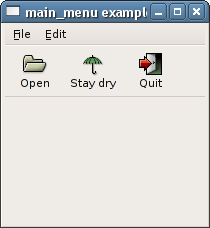
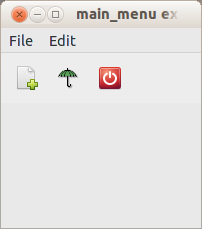
Update the menus/main_menu and menus_and_toolbars examples
* docs/tutorial/C/figures/main_menu.png:
* docs/tutorial/C/figures/menus_and_toolbars.png: Updated pictures.
* examples/book/menus/main_menu/examplewindow.[h|cc]: Use Gtk::Builder to
create the toolbar.
* examples/book/menus_and_toolbars/examplewindow.[h|cc]: Use Gtk::Builder to
create the toolbar. Add the Rain tool button, which was deleted when
Gtk::UIManager was abandoned. Use Gtk::Application::set_accel_for_action().
* examples/book/menus_and_toolbars/main.cc: Add the app to ExampleWindow's
constructor.

Changed region(s): [[0.0, 0.0, 1.0, 1.0]]

diff --git a/examples/book/menus_and_toolbars/examplewindow.cc b/examples/book/menus_and_toolbars/examplewindow.cc
@@ -1,5 +1,3 @@
-//$Id: examplewindow.cc 836 2007-05-09 03:02:38Z jjongsma $ -*- c++ -*-
-
 /* gtkmm example Copyright (C) 2002 gtkmm development team
  *
  * This program is free software; you can redistribute it and/or modify
@@ -20,7 +18,7 @@
 #include <gtkmm.h>
 #include <iostream>
 
-ExampleWindow::ExampleWindow()
+ExampleWindow::ExampleWindow(const Glib::RefPtr<Gtk::Application>& app)
 : m_Box(Gtk::ORIENTATION_VERTICAL)
 {
   set_title("main_menu example");
@@ -55,9 +53,8 @@ ExampleWindow::ExampleWindow()
 
   //Define how the actions are presented in the menus and toolbars:
   Glib::RefPtr<Gtk::Builder> m_refBuilder = Gtk::Builder::create();
-  //TODO? add_accel_group(m_refBuilder->get_accel_group());
 
-  //Layout the actions in a menubar:
+  //Layout the actions in a menubar and toolbar:
   const char* ui_info =
     "<interface>"
     "  <menu id='menubar'>"
@@ -94,6 +91,7 @@ ExampleWindow::ExampleWindow()
     "      <item>"
     "        <attribute name='label' translatable='yes'>_Cut</attribute>"
     "        <attribute name='action'>example.cut</attribute>"
+    "        <attribute name='accel'>&lt;Primary&gt;x</attribute>"
     "      </item>"
     "      <item>"
     "        <attribute name='label' translatable='yes'>_Copy</attribute>"
@@ -106,7 +104,70 @@ ExampleWindow::ExampleWindow()
     "        <attribute name='accel'>&lt;Primary&gt;v</attribute>"
     "      </item>"
     "    </submenu>"
-    "  </menu>";
+    "  </menu>"
+    ""
+    "<!-- Generated with glade 3.18.3 -->"
+    "  <object class='GtkImage' id='image_rain'>"
+    "    <property name='visible'>True</property>"
+    "    <property name='can_focus'>False</property>"
+    "    <property name='pixbuf'>rain.png</property>"
+    "  </object>"
+    "  <object class='GtkToolbar' id='toolbar'>"
+    "    <property name='visible'>True</property>"
+    "    <property name='can_focus'>False</property>"
+    "    <child>"
+    "      <object class='GtkToolButton' id='toolbutton_new'>"
+    "        <property name='visible'>True</property>"
+    "        <property name='can_focus'>False</property>"
+    "        <property name='tooltip_text' translatable='yes'>New</property>"
+    "        <property name='action_name'>example.new</property>"
+    "        <property name='icon_name'>document-new</property>"
+    "      </object>"
+    "      <packing>"
+    "        <property name='expand'>False</property>"
+    "        <property name='homogeneous'>True</property>"
+    "      </packing>"
+    "    </child>"
+    "    <child>"
+    "      <object class='GtkToggleToolButton' id='toolbutton_rain'>"
+    "        <property name='visible'>True</property>"
+    "        <property name='can_focus'>False</property>"
+    "        <property name='tooltip_text' translatable='yes'>Stay dry in the rain</property>"
+    "        <property name='action_name'>example.rain</property>"
+    "        <property name='label_widget'>image_rain</property>"
+    "      </object>"
+    "      <packing>"
+    "        <property name='expand'>False</property>"
+    "        <property name='homogeneous'>True</property>"
+    "      </packing>"
+    "    </child>"
+    "    <child>"
+    "      <object class='GtkToolButton' id='toolbutton_quit'>"
+    "        <property name='visible'>True</property>"
+    "        <property name='can_focus'>False</property>"
+    "        <property name='tooltip_text' translatable='yes'>Quit</property>"
+    "        <property name='action_name'>example.quit</property>"
+    "        <property name='icon_name'>application-exit</property>"
+    "      </object>"
+    "      <packing>"
+    "        <property name='expand'>False</property>"
+    "        <property name='homogeneous'>True</property>"
+    "      </packing>"
+    "    </child>"
+    "  </object>"
+    "</interface>";
+
+  // When the menubar is a child of a Gtk::Window, keyboard accelerators are not
+  // automatically fetched from the Gio::Menu.
+  // See the examples/book/menus/main_menu example for an alternative way of
+  // adding the menubar when using Gtk::ApplicationWindow.
+  // Gtk::Application::set_accel_for_action() is new in gtkmm 3.11.9.
+  app->set_accel_for_action("example.new", "<Primary>n");
+  app->set_accel_for_action("example.open", "<Primary>o");
+  app->set_accel_for_action("example.quit", "<Primary>q");
+  app->set_accel_for_action("example.cut", "<Primary>x");
+  app->set_accel_for_action("example.copy", "<Primary>c");
+  app->set_accel_for_action("example.paste", "<Primary>v");
 
   try
   {
@@ -114,39 +175,29 @@ ExampleWindow::ExampleWindow()
   }
   catch(const Glib::Error& ex)
   {
-    std::cerr << "building menus failed: " <<  ex.what();
+    std::cerr << "Building menus and toolbar failed: " <<  ex.what();
   }
 
   //Get the menubar:
-  Glib::RefPtr<Glib::Object> object =
-    m_refBuilder->get_object("menubar");
-  Glib::RefPtr<Gio::Menu> gmenu =
-    Glib::RefPtr<Gio::Menu>::cast_dynamic(object);
-  if(!gmenu)
+  Glib::RefPtr<Glib::Object> object = m_refBuilder->get_object("menubar");
+  Glib::RefPtr<Gio::Menu> gmenu = Glib::RefPtr<Gio::Menu>::cast_dynamic(object);
+  if (!gmenu)
     g_warning("GMenu not found");
+  else
+  {
+    Gtk::MenuBar* pMenuBar = Gtk::manage(new Gtk::MenuBar(gmenu));
 
-  Gtk::MenuBar* pMenuBar = new Gtk::MenuBar(gmenu);
+    //Add the MenuBar to the window:
+    m_Box.pack_start(*pMenuBar, Gtk::PACK_SHRINK);
+  }
 
-  //Add the MenuBar to the window:
-  m_Box.pack_start(*pMenuBar, Gtk::PACK_SHRINK);
-
-
-  //Create the toolbar and add it to a container widget:
-  Gtk::Toolbar* toolbar = Gtk::manage(new Gtk::Toolbar());
-  Gtk::ToolButton* button = Gtk::manage(new Gtk::ToolButton());
-  button->set_icon_name("document-new");
-  //We can't do this until we can break the ToolButton ABI: button->set_detailed_action_name("example.new");
-  gtk_actionable_set_detailed_action_name (GTK_ACTIONABLE (button->gobj()), "example.new");
-  toolbar->add(*button);
-
-  button = Gtk::manage(new Gtk::ToolButton());
-  button->set_icon_name("application-exit");
-  //We can't do this until we can break the ToolButton ABI: button->set_detailed_action_name("example.quit");
-  gtk_actionable_set_detailed_action_name (GTK_ACTIONABLE (button->gobj()), "example.quit");
-  toolbar->add(*button);
-
-  m_Box.pack_start(*toolbar, Gtk::PACK_SHRINK);
-
+  //Get the toolbar and add it to a container widget:
+  Gtk::Toolbar* toolbar = 0;
+  m_refBuilder->get_widget("toolbar", toolbar);
+  if (!toolbar)
+    g_warning("GtkToolbar not found");
+  else
+    m_Box.pack_start(*toolbar, Gtk::PACK_SHRINK);
 
   show_all_children();
 }

diff --git a/examples/book/menus/main_menu/examplewindow.cc b/examples/book/menus/main_menu/examplewindow.cc
@@ -54,24 +54,61 @@ ExampleWindow::ExampleWindow()
   add_action("about", sigc::mem_fun(*this, &ExampleWindow::on_menu_others));
 
   //Create the toolbar and add it to a container widget:
-  Gtk::Toolbar* toolbar = Gtk::manage(new Gtk::Toolbar());
-  Gtk::ToolButton* button = Gtk::manage(new Gtk::ToolButton());
-  button->set_icon_name("document-new");
-  // We can't do this until we can break the ToolButton ABI:
-  //   button->set_detailed_action_name("app.newstandard");
-  gtk_actionable_set_detailed_action_name(GTK_ACTIONABLE(button->gobj()),
-    "app.newstandard");
-  toolbar->add(*button);
 
-  button = Gtk::manage(new Gtk::ToolButton());
-  button->set_icon_name("application-exit");
-  // We can't do this until we can break the ToolButton ABI:
-  //   button->set_detailed_action_name("app.quit");
-  gtk_actionable_set_detailed_action_name(GTK_ACTIONABLE(button->gobj()),
-    "app.quit");
-  toolbar->add(*button);
+  m_refBuilder = Gtk::Builder::create();
 
-  m_Box.pack_start(*toolbar, Gtk::PACK_SHRINK);
+  Glib::ustring ui_info =
+    "<?xml version='1.0' encoding='UTF-8'?>"
+    "<!-- Generated with glade 3.18.3 -->"
+    "<interface>"
+    "  <requires lib='gtk+' version='3.12'/>"
+    "  <object class='GtkToolbar' id='toolbar'>"
+    "    <property name='visible'>True</property>"
+    "    <property name='can_focus'>False</property>"
+    "    <child>"
+    "      <object class='GtkToolButton' id='toolbutton_new'>"
+    "        <property name='visible'>True</property>"
+    "        <property name='can_focus'>False</property>"
+    "        <property name='tooltip_text' translatable='yes'>New Standard</property>"
+    "        <property name='action_name'>app.newstandard</property>"
+    "        <property name='icon_name'>document-new</property>"
+    "      </object>"
+    "      <packing>"
+    "        <property name='expand'>False</property>"
+    "        <property name='homogeneous'>True</property>"
+    "      </packing>"
+    "    </child>"
+    "    <child>"
+    "      <object class='GtkToolButton' id='toolbutton_quit'>"
+    "        <property name='visible'>True</property>"
+    "        <property name='can_focus'>False</property>"
+    "        <property name='tooltip_text' translatable='yes'>Quit</property>"
+    "        <property name='action_name'>app.quit</property>"
+    "        <property name='icon_name'>application-exit</property>"
+    "      </object>"
+    "      <packing>"
+    "        <property name='expand'>False</property>"
+    "        <property name='homogeneous'>True</property>"
+    "      </packing>"
+    "    </child>"
+    "  </object>"
+    "</interface>";
+
+  try
+  {
+    m_refBuilder->add_from_string(ui_info);
+  }
+  catch (const Glib::Error& ex)
+  {
+    std::cerr << "Building toolbar failed: " <<  ex.what();
+  }
+
+  Gtk::Toolbar* toolbar = 0;
+  m_refBuilder->get_widget("toolbar", toolbar);
+  if (!toolbar)
+    g_warning("GtkToolbar not found");
+  else
+    m_Box.pack_start(*toolbar, Gtk::PACK_SHRINK);
 }
 
 ExampleWindow::~ExampleWindow()

diff --git a/examples/book/menus_and_toolbars/main.cc b/examples/book/menus_and_toolbars/main.cc
@@ -1,5 +1,3 @@
-//$Id: main.cc 836 2007-05-09 03:02:38Z jjongsma $ -*- c++ -*-
-
 /* gtkmm example Copyright (C) 2002 gtkmm development team
  *
  * This program is free software; you can redistribute it and/or modify
@@ -23,7 +21,7 @@ int main(int argc, char *argv[])
 {
   Glib::RefPtr<Gtk::Application> app = Gtk::Application::create(argc, argv, "org.gtkmm.example");
 
-  ExampleWindow window;
+  ExampleWindow window(app);
 
   //Shows the window and returns when it is closed.
   return app->run(window);

diff --git a/examples/book/menus_and_toolbars/examplewindow.h b/examples/book/menus_and_toolbars/examplewindow.h
@@ -1,5 +1,3 @@
-//$Id: examplewindow.h 705 2006-07-19 02:55:32Z jjongsma $ -*- c++ -*-
-
 /* gtkmm example Copyright (C) 2002 gtkmm development team
  *
  * This program is free software; you can redistribute it and/or modify
@@ -24,7 +22,7 @@
 class ExampleWindow : public Gtk::Window
 {
 public:
-  ExampleWindow();
+  ExampleWindow(const Glib::RefPtr<Gtk::Application>& app);
   virtual ~ExampleWindow();
 
 private:

diff --git a/examples/book/menus/main_menu/examplewindow.h b/examples/book/menus/main_menu/examplewindow.h
@@ -36,6 +36,8 @@ protected:
   //Child widgets:
   Gtk::Box m_Box;
 
+  Glib::RefPtr<Gtk::Builder> m_refBuilder;
+
   //Two sets of choices:
   Glib::RefPtr<Gio::SimpleAction> m_refChoice;
   Glib::RefPtr<Gio::SimpleAction> m_refChoiceOther;
